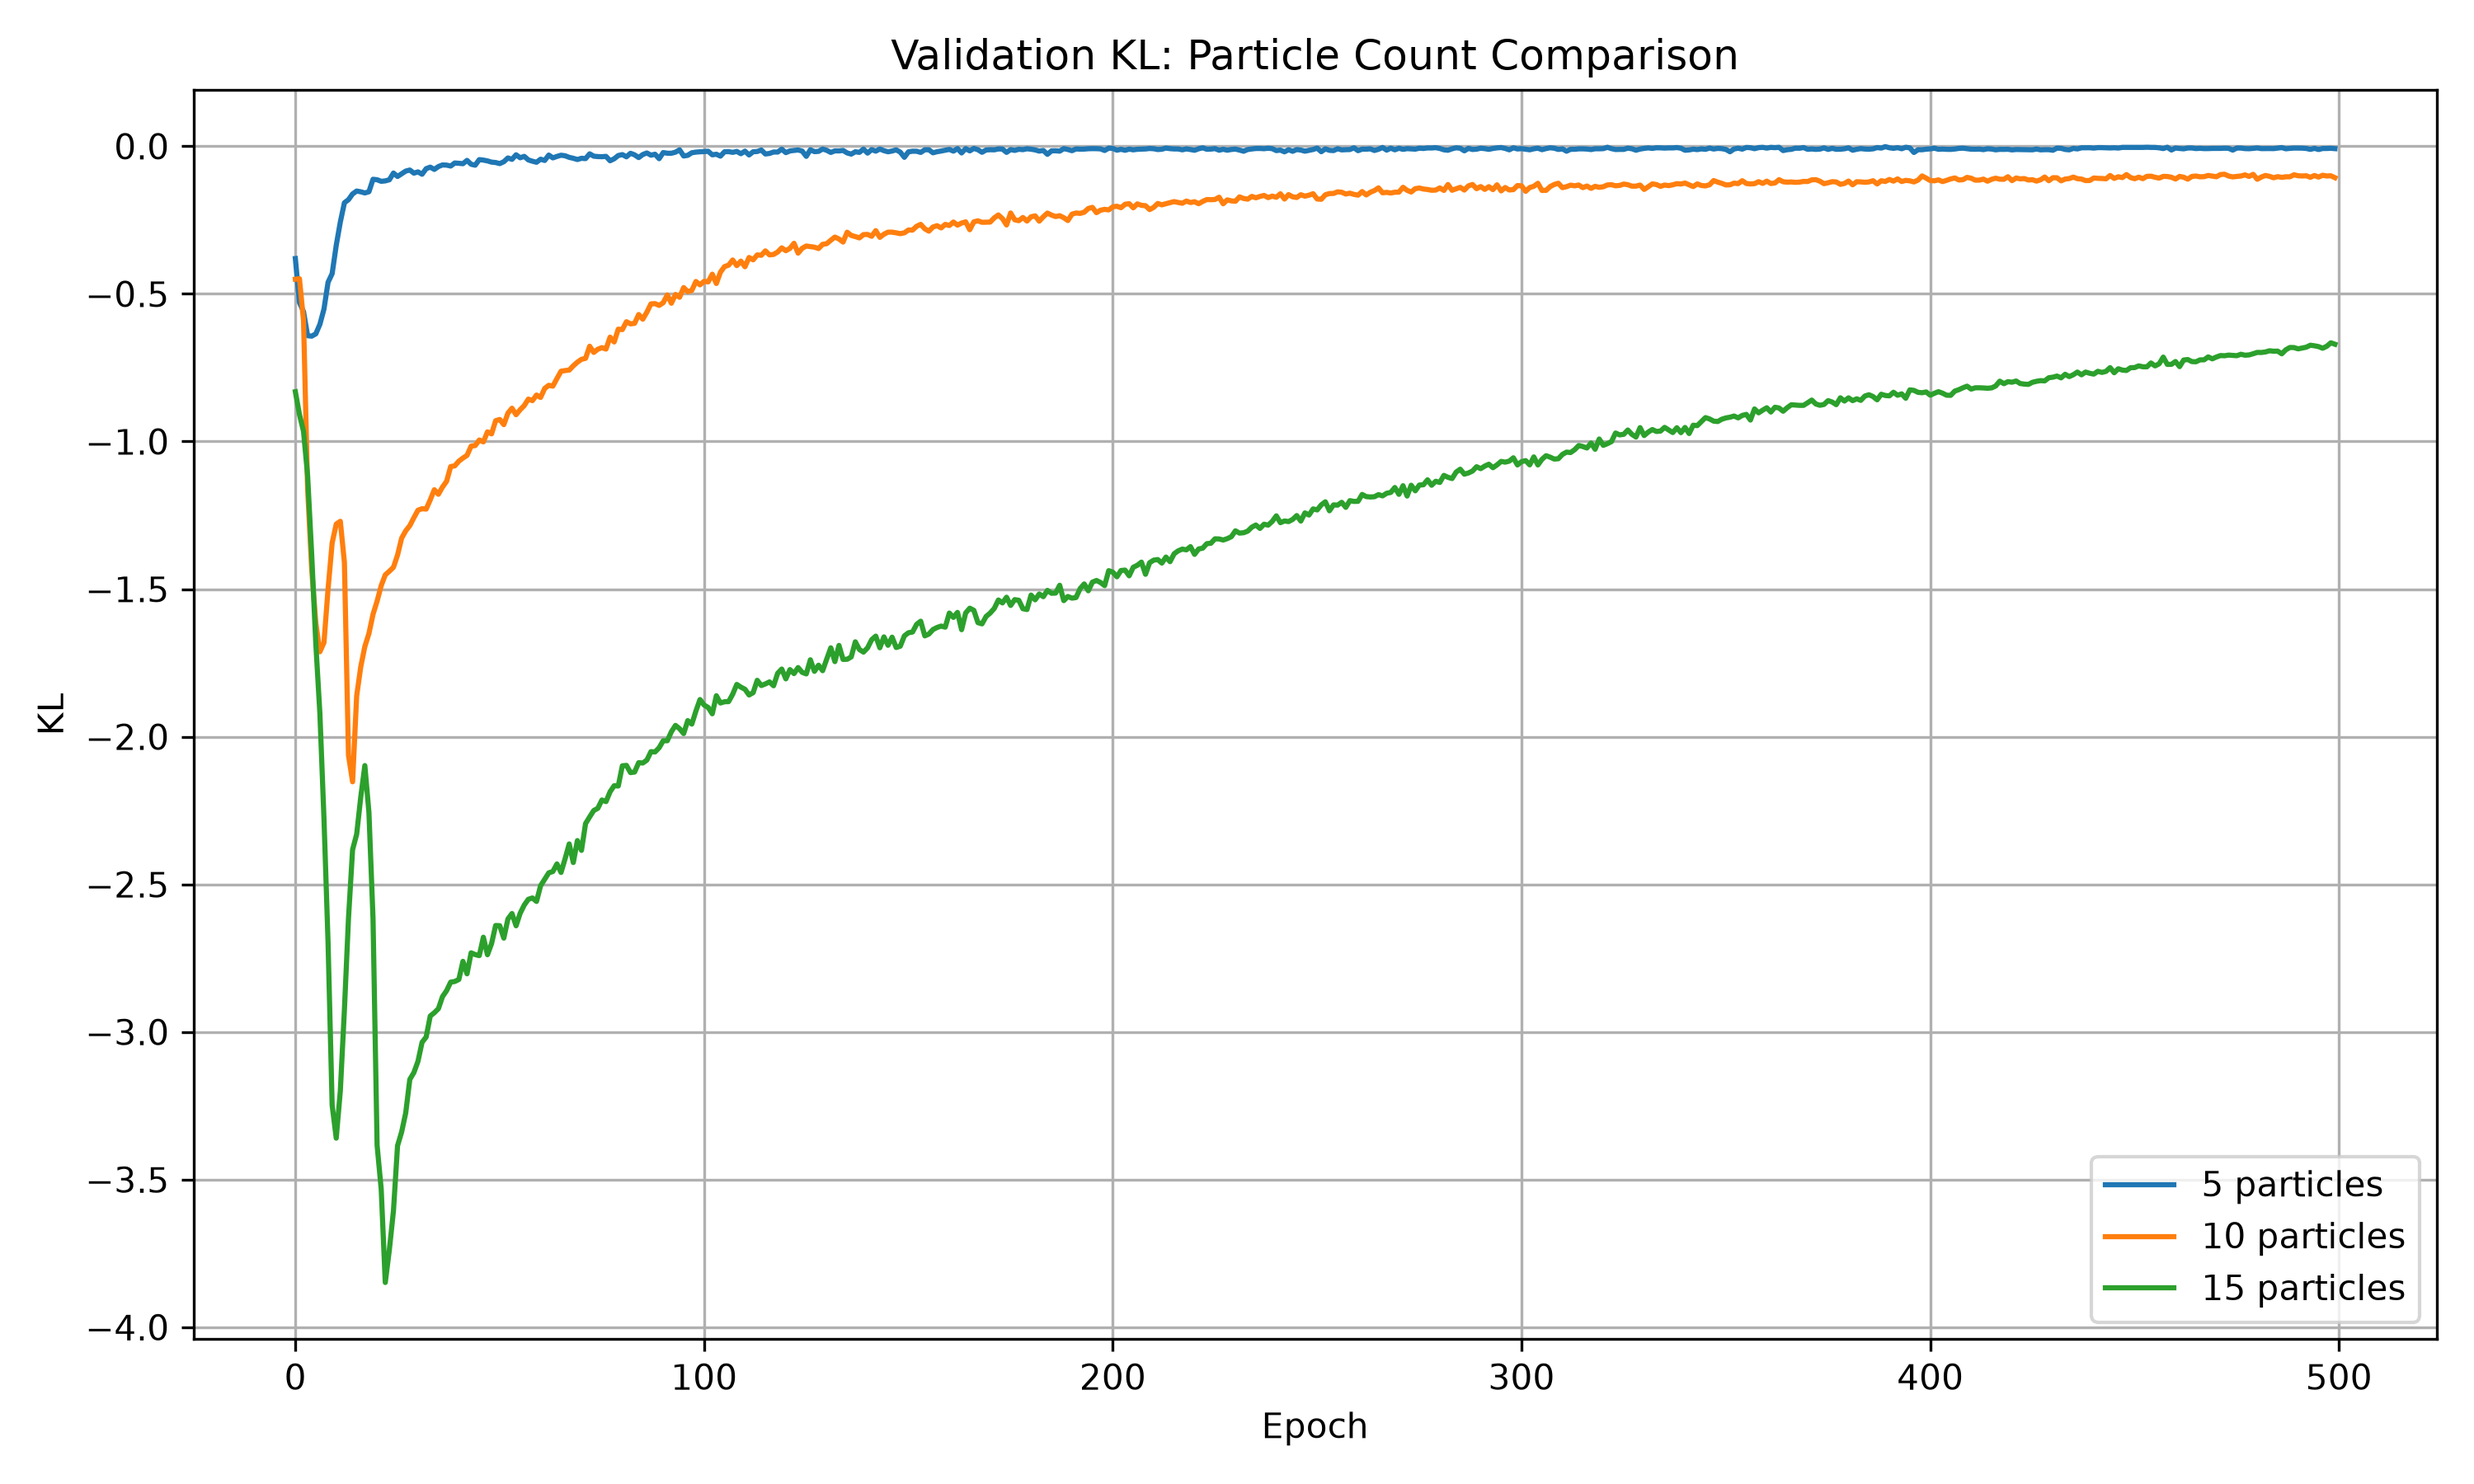
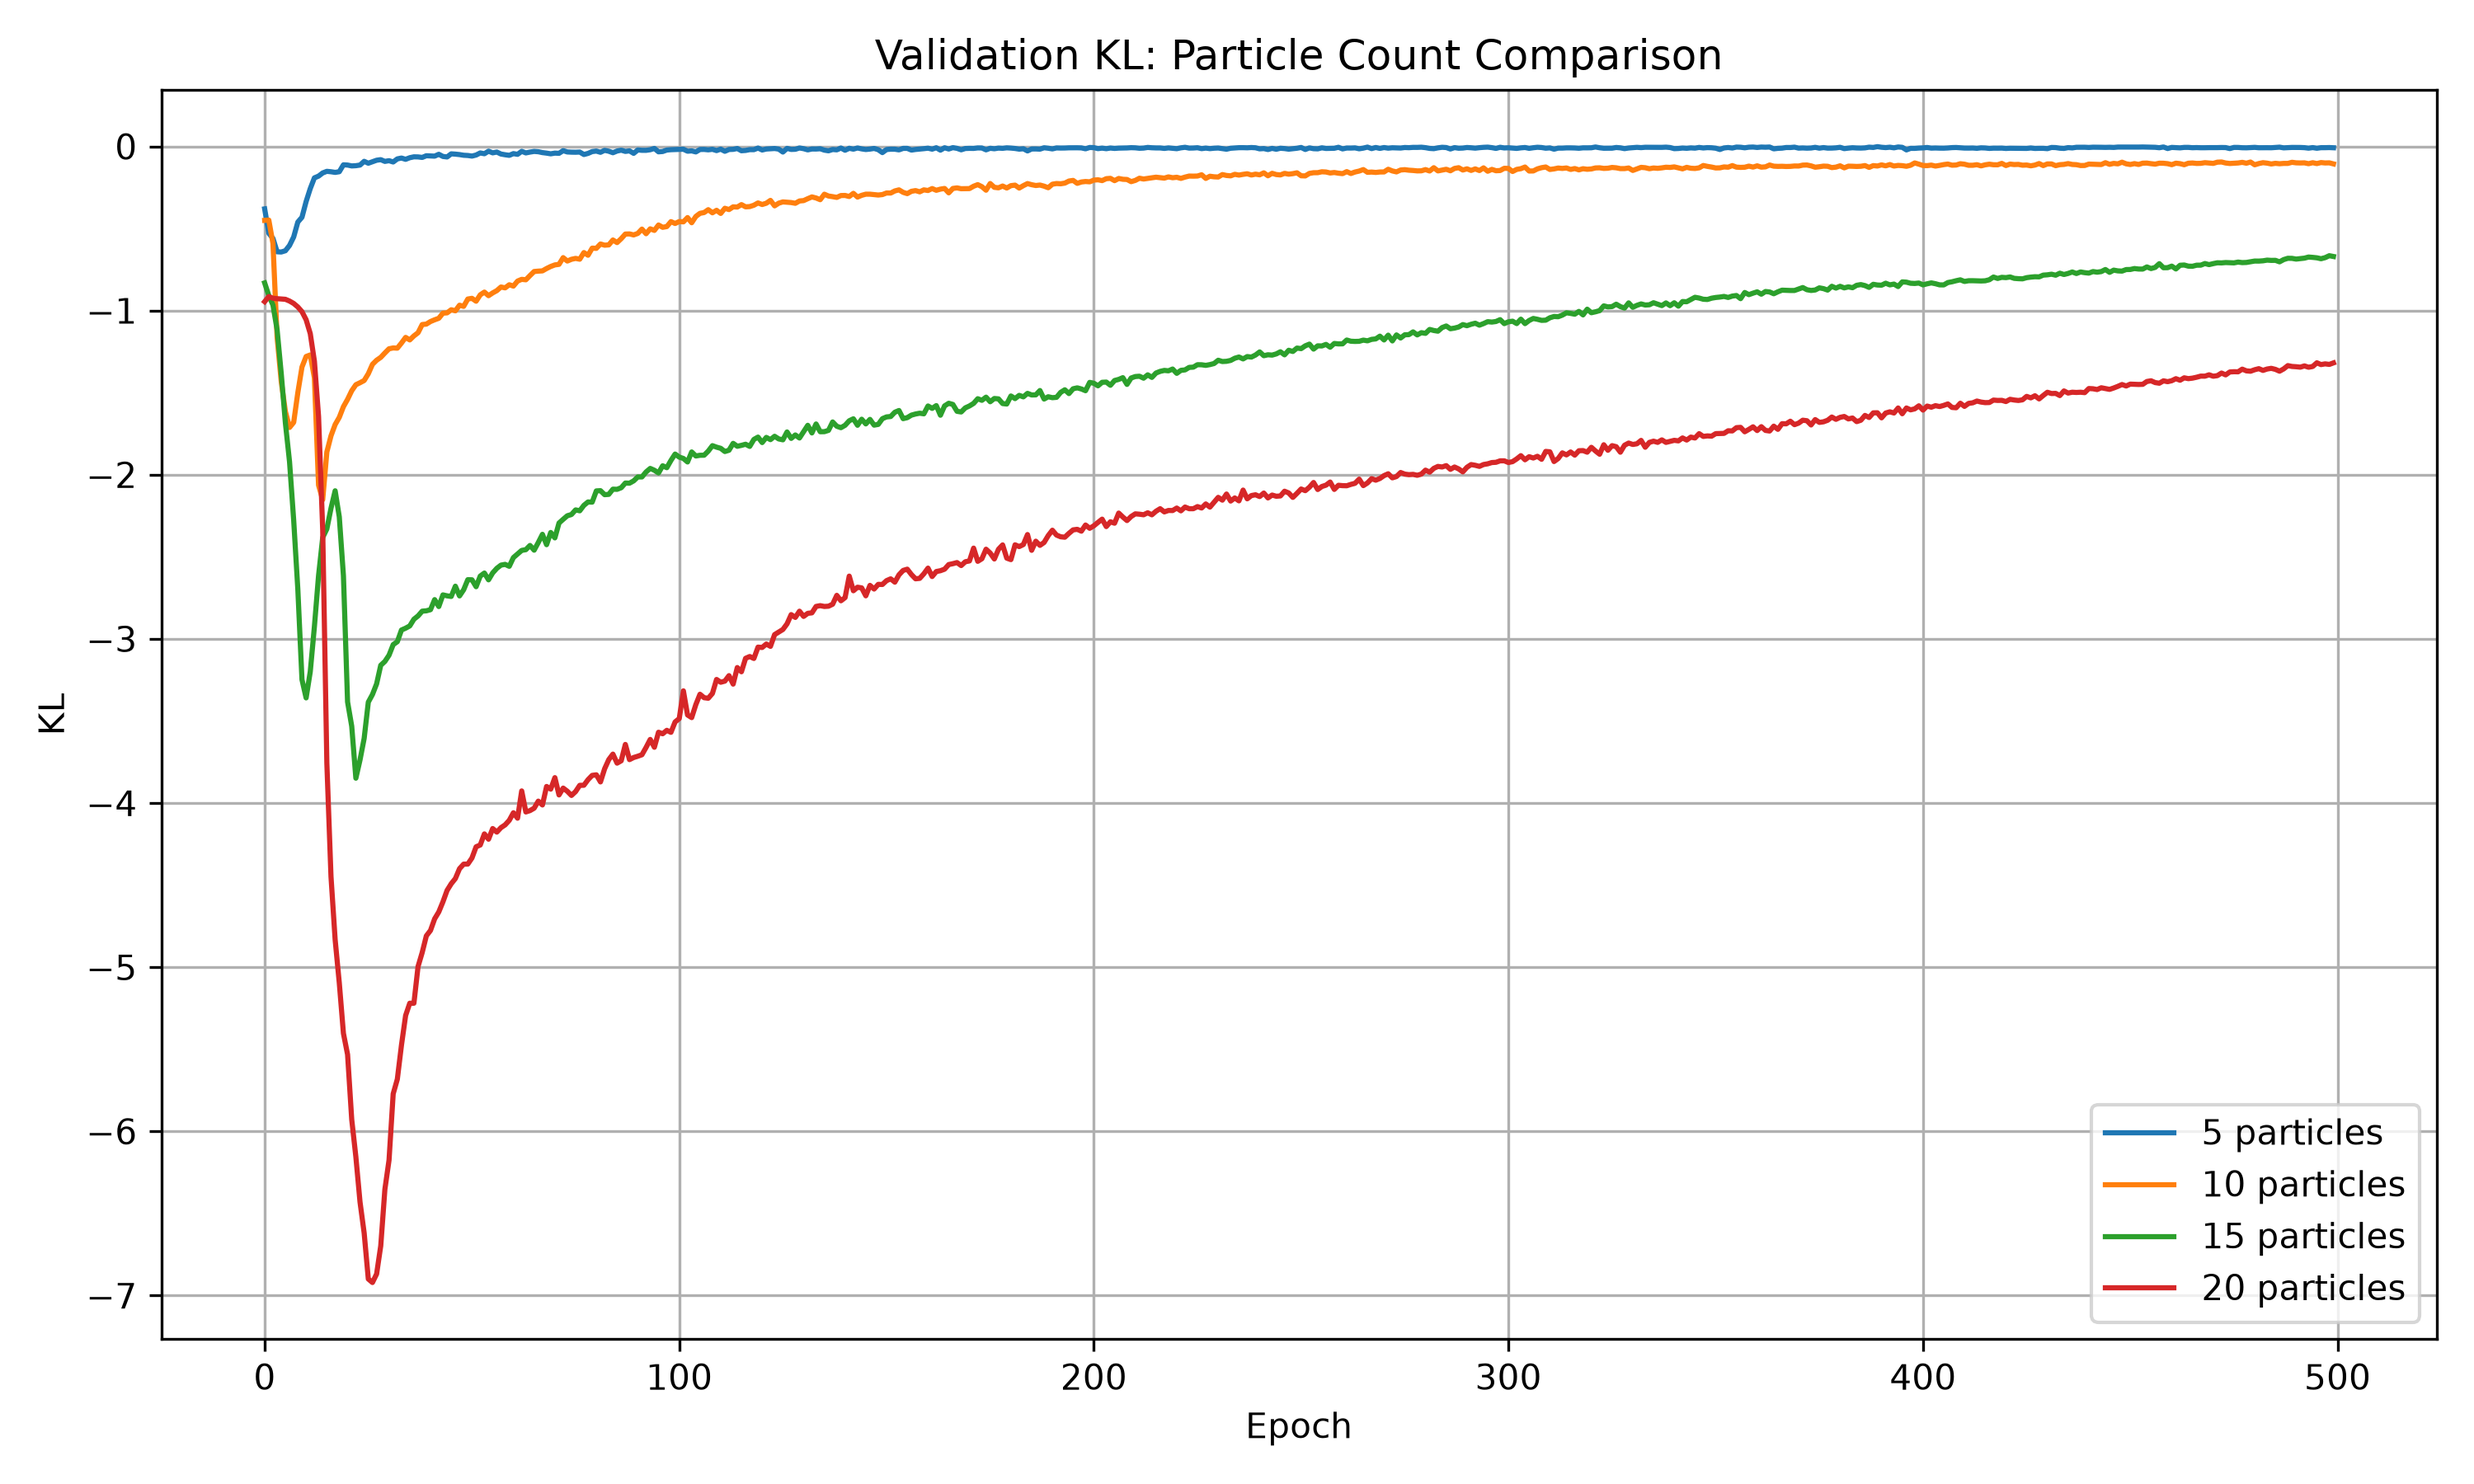
Add 20-particle experiment results

diff --git a/analyze_nri_results.py b/analyze_nri_results.py
@@ -21,6 +21,7 @@ PARTICLE_COMPARISON = [
     ("5particle", 5, 10000),
     ("10particle", 10, 10000),
     ("15particle", 15, 10000),
+    ("20particle",20,10000),
 ]
 
 # ------------------------------------------------------------
